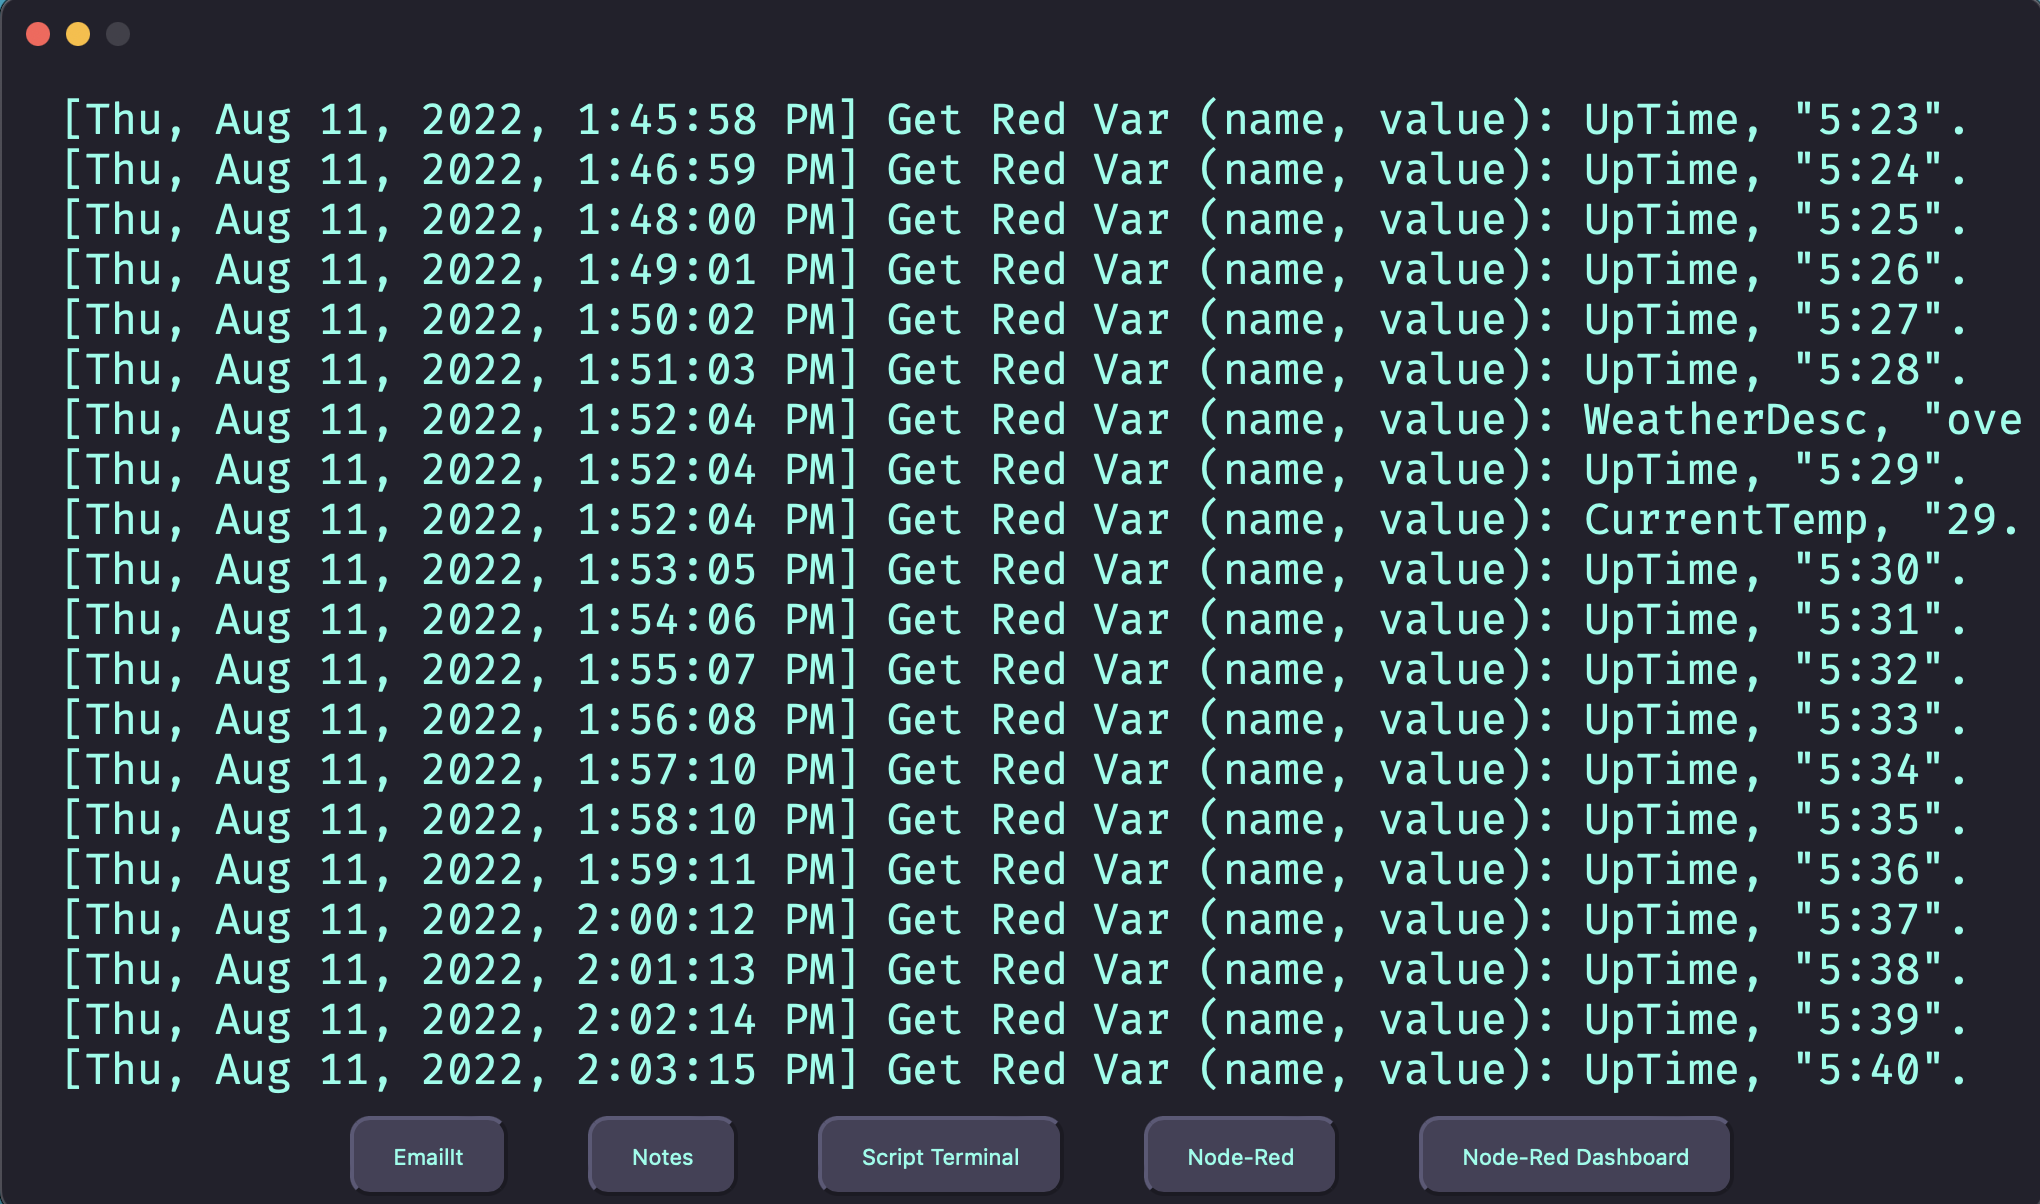
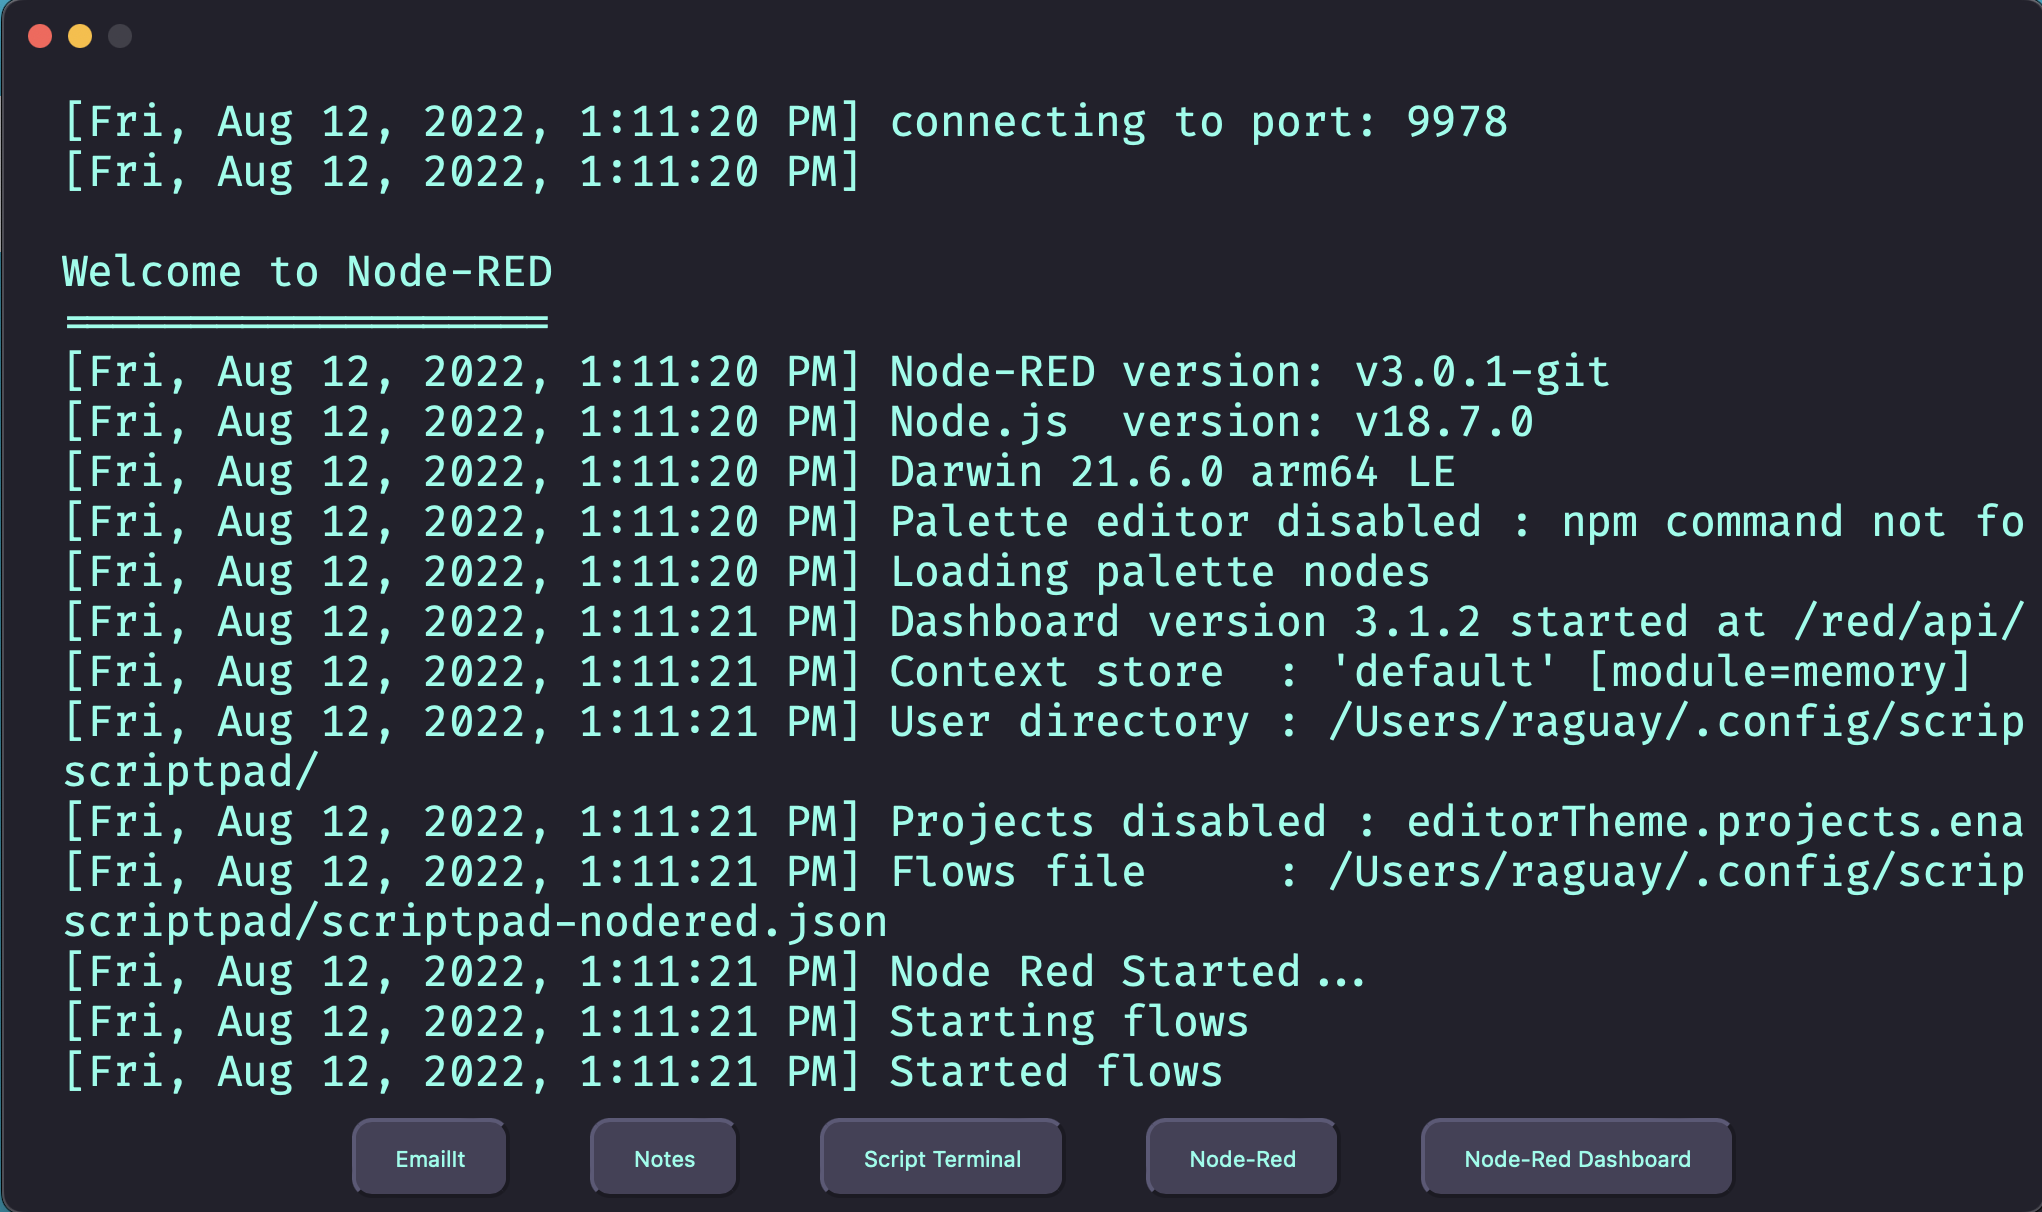
Working on the documents

diff --git a/README.md b/README.md
@@ -352,6 +352,12 @@ The `lines` structure is an array of objects containing a `text` field with the 
 
 The valid colors are: red, black, green, orange, blue, magenta, cyan, gray, and default. These colors are controlled by the current theme for EmailIt. The default color is the text color.
 
+## Logs
+
+![Logs Screen](/images/logs.png)
+
+The logs screen is used to see the output of the Node-Red server and anything sent to the `SPlogger` node. The `Node-Red` button will open the administrator screen for creating Node-Red flows. The `Node-Red Dashboard` will open the dashboard you setup for your Node-Red server. All the other buttons are already described in other sections.
+
 ## Preferences
 
 The preferences can be reached by pressing `<ctrl>-p` or `<cmd>-,` anywhere in the program. There are four sections currently: General, Theme, Node-Red, External Scripts, and Environments. I'm working on a GitHub download section, but it's not finished yet.
@@ -415,7 +421,7 @@ on this base. These endpoints only allow access from requests on the same machin
 | /getip | A GET request will return the IP of the computer that is running EmailIt. |
 | /nodered/var/<name> | A GET request will return the current value of the Node-Red variable. A PUT request will set the Node-Red variable to the `text` element of the JSON structure in the body. |
 
-All the endpoints are used to make the plugins for Alfred, Keyboard Maestro, Dropzone, PopClip, and Launchpad. Also, the ScriptBar program uses these endpoints as well. I'm planning to add serving pages on the user's computer as well.
+All the endpoints are used to make the plugins for Alfred, Keyboard Maestro, Dropzone, PopClip, and Launchpad. Also, the ScriptBar program uses these endpoints as well. I'm planning to add serving pages on the user's computer and other functionality as well. I have lots of ideas.
 
 ### ScriptBar
 
